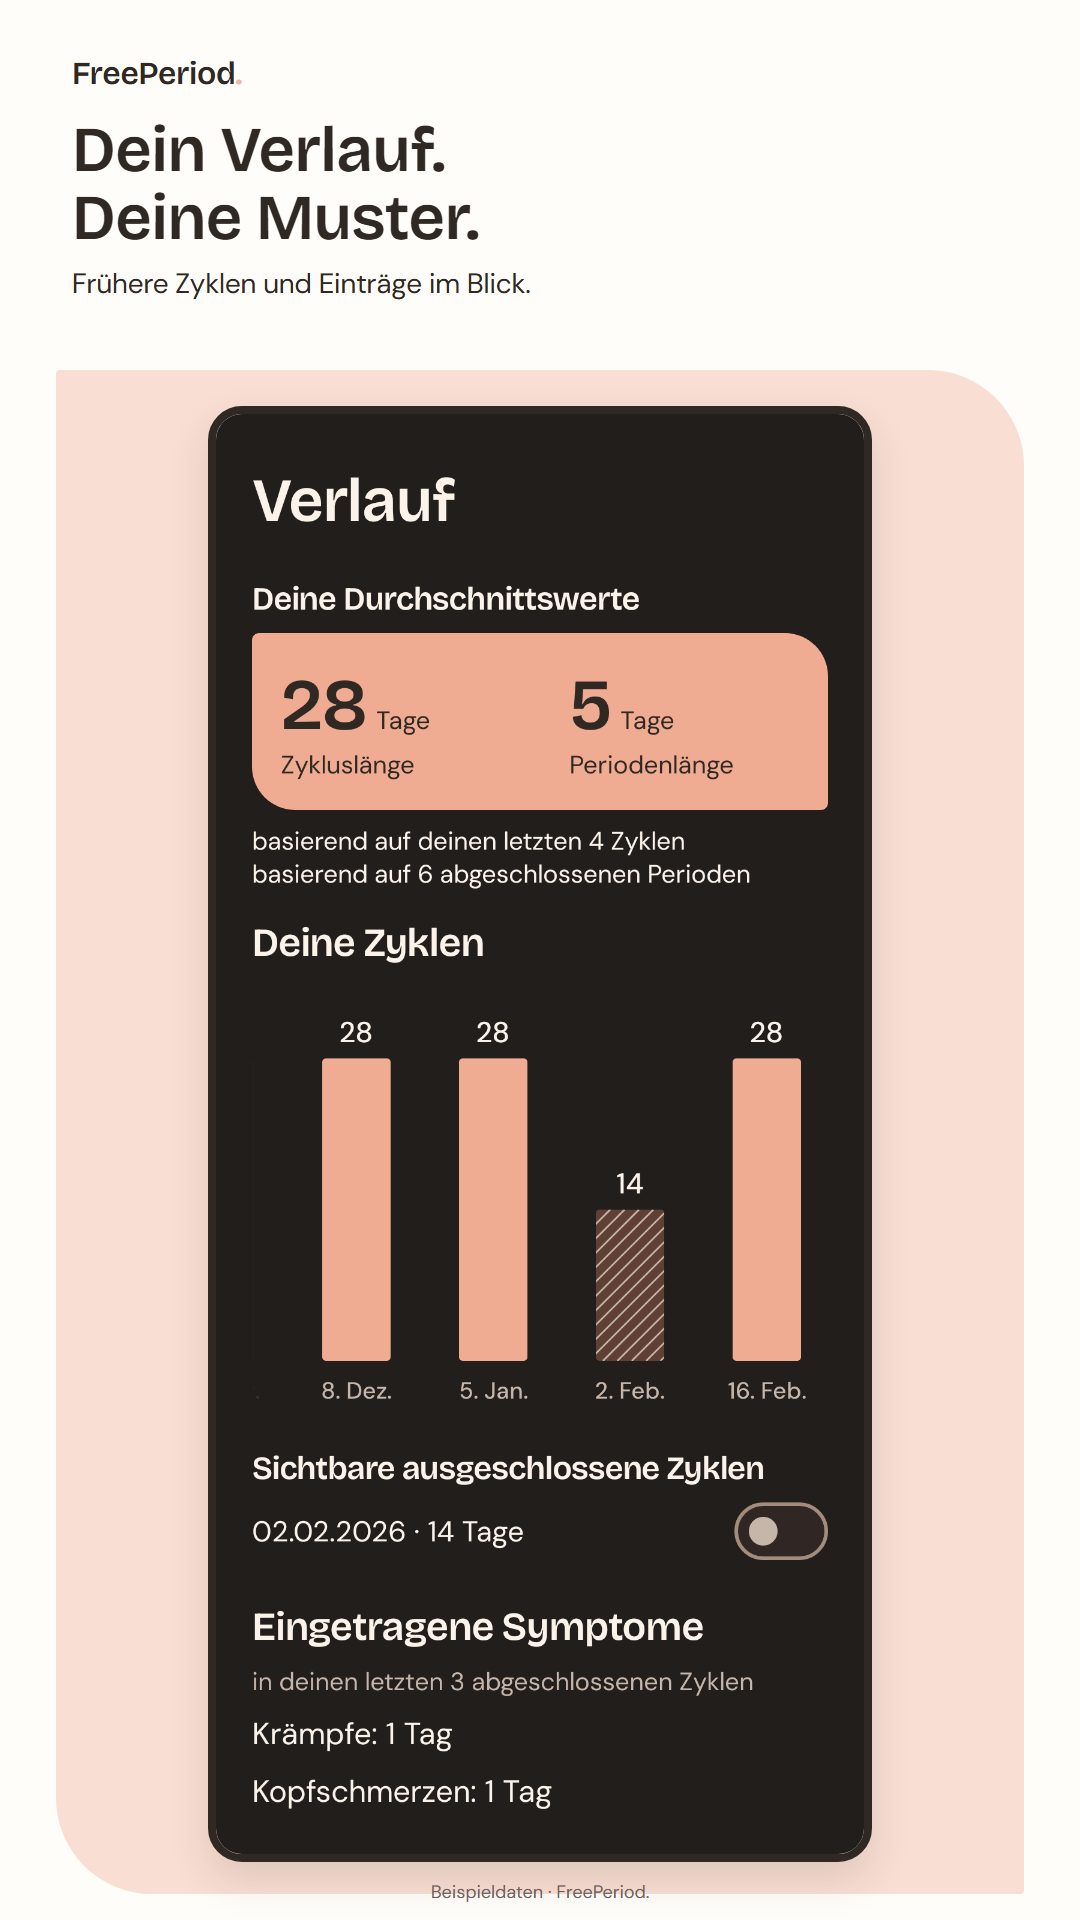
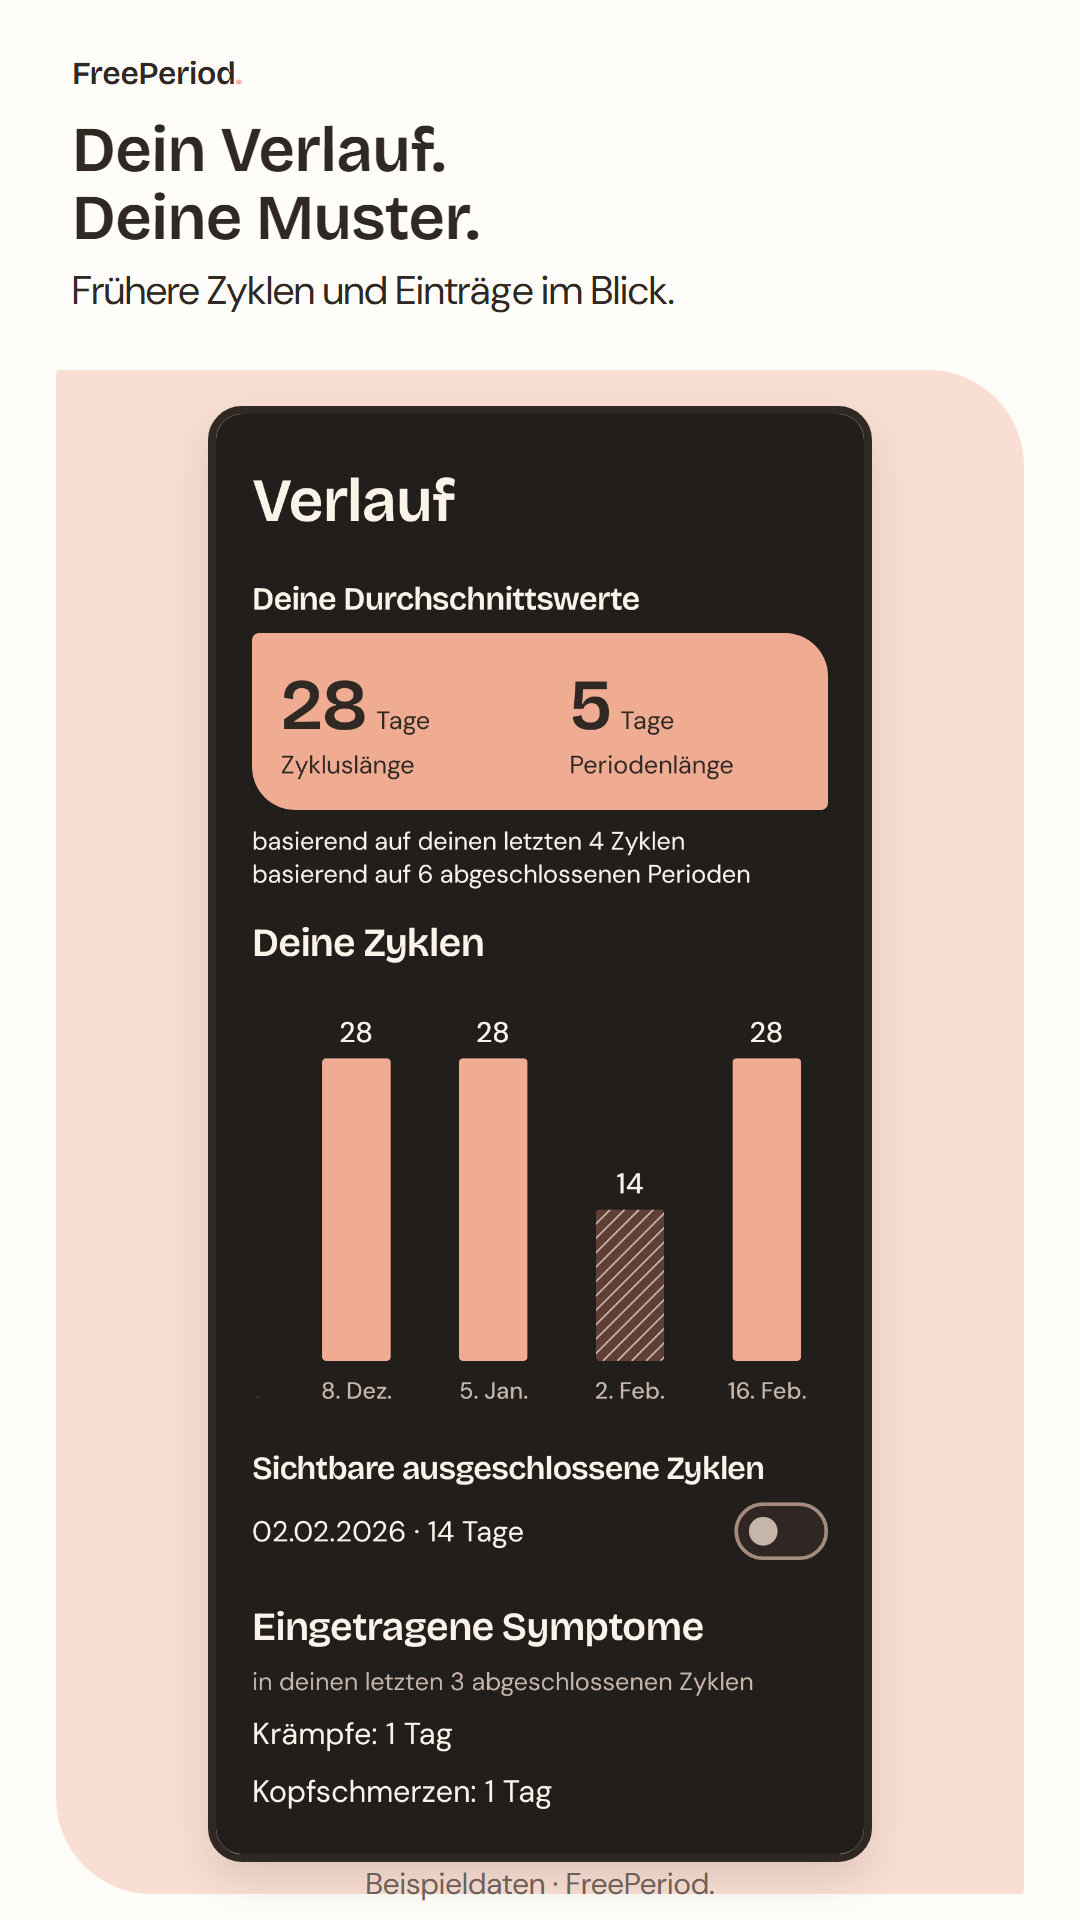
store: captions and small lines readable on a phone (~12-15 dp instead of 7-11 dp)

Changed region(s): [[0.0611, 0.125, 0.6111, 0.1562], [0.3361, 0.9688, 0.6417, 1.0]]

diff --git a/store/artwork.css b/store/artwork.css
@@ -11,9 +11,9 @@ body.artwork { margin: 0; padding: 48px; width: max-content; }
 }
 .feature-copy { position: absolute; left: 56px; top: 40px; width: 580px; }
 .feature .wordmark { font-size: 38px; }
-.feature h1 { font-size: 66px; line-height: 1.06; letter-spacing: -0.6px; margin: 42px 0 20px; }
-.feature p { font-size: 20px; line-height: 1.45; max-width: 440px; }
-.feature .feature-foot { position: absolute; bottom: 28px; left: 56px; margin: 0; font-size: 17px; }
+.feature h1 { font-size: 66px; line-height: 1.06; letter-spacing: -0.6px; margin: 30px 0 18px; }
+.feature p { font-size: 30px; line-height: 1.3; max-width: 560px; }
+.feature .feature-foot { position: absolute; bottom: 28px; left: 56px; margin: 0; font-size: 30px; }
 .feature-phone {
   position: absolute; right: 85px; top: 24px; width: 198px; height: 440px;
   box-sizing: content-box; border: 6px solid var(--ink); border-radius: 26px;
@@ -27,7 +27,7 @@ body.artwork { margin: 0; padding: 48px; width: max-content; }
 .shot header { position: absolute; top: 56px; left: 72px; right: 72px; }
 .shot .wordmark { font-size: 32px; }
 .shot h2 { font-size: 64px; line-height: 1.06; letter-spacing: -0.6px; margin: 24px 0 14px; }
-.shot .caption { font-size: 28px; line-height: 1.35; max-width: 860px; margin: 0; }
+.shot .caption { font-size: 40px; line-height: 1.25; max-width: 860px; margin: 0; }
 .phone-frame {
   position: absolute; top: 406px; left: 50%; transform: translateX(-50%);
   width: 648px; height: 1440px; box-sizing: content-box; border: 8px solid var(--ink);
@@ -35,7 +35,7 @@ body.artwork { margin: 0; padding: 48px; width: max-content; }
   box-shadow: 0 18px 40px #30292320;
 }
 .phone-frame img { display: block; width: 100%; height: 100%; object-fit: contain; }
-.shot footer { position: absolute; bottom: 12px; width: 100%; text-align: center; color: var(--muted); font-size: 18px; }
+.shot footer { position: absolute; bottom: 12px; width: 100%; text-align: center; color: var(--muted); font-size: 30px; }
 .language-note { float: right; padding: 5px 12px; border: 1px solid var(--muted); border-radius: 4px; font-size: 18px; }
 @media print {
   html { background: white; }

diff --git a/store/screenshots-de.html b/store/screenshots-de.html
@@ -31,7 +31,7 @@
       <header>
         <div class="wordmark">FreePeriod<span class="stop">.</span></div>
         <h2 id="title-diary">Platz für<br>deinen Tag.</h2>
-        <p class="caption">Stimmung, Beschwerden und Notizen. So viel du möchtest.</p>
+        <p class="caption">Stimmung, Symptome und Notizen. So viel du willst.</p>
       </header>
       <div class="phone-frame"><img src="../app/src/test/screenshots/day/filled_deDark.png" width="1080" height="2400" alt="Platz für deinen Tag. App-Ansicht mit Beispieldaten."></div>
       <footer>Beispieldaten · FreePeriod.</footer>
